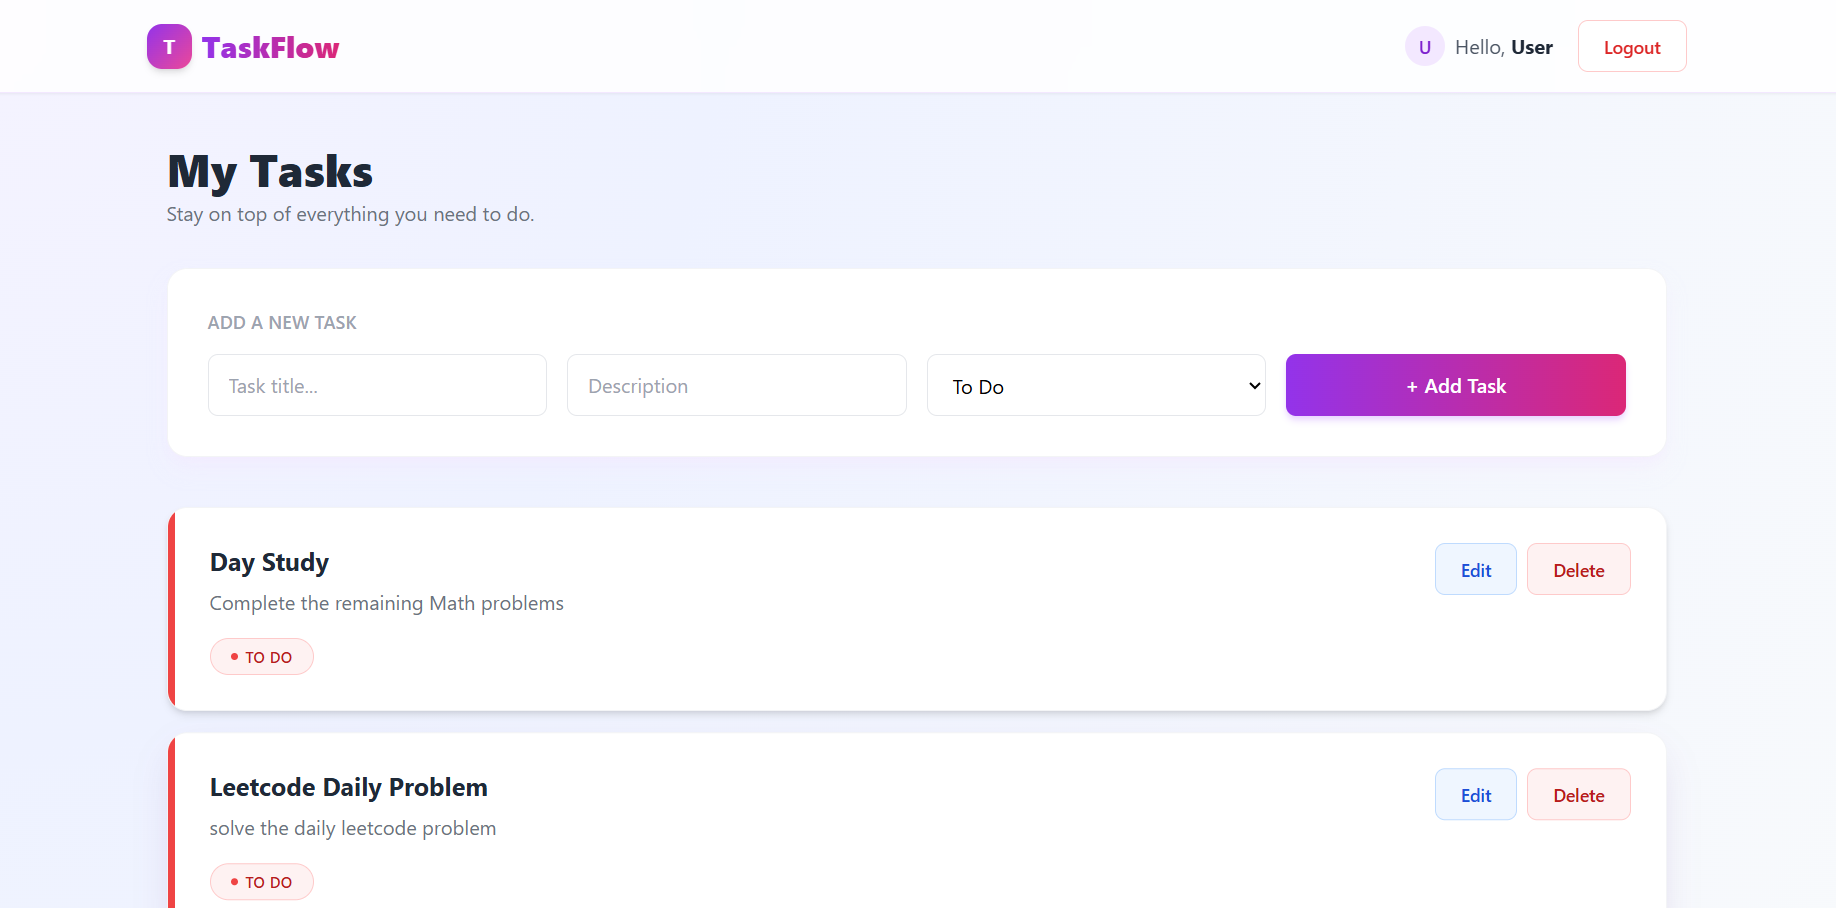
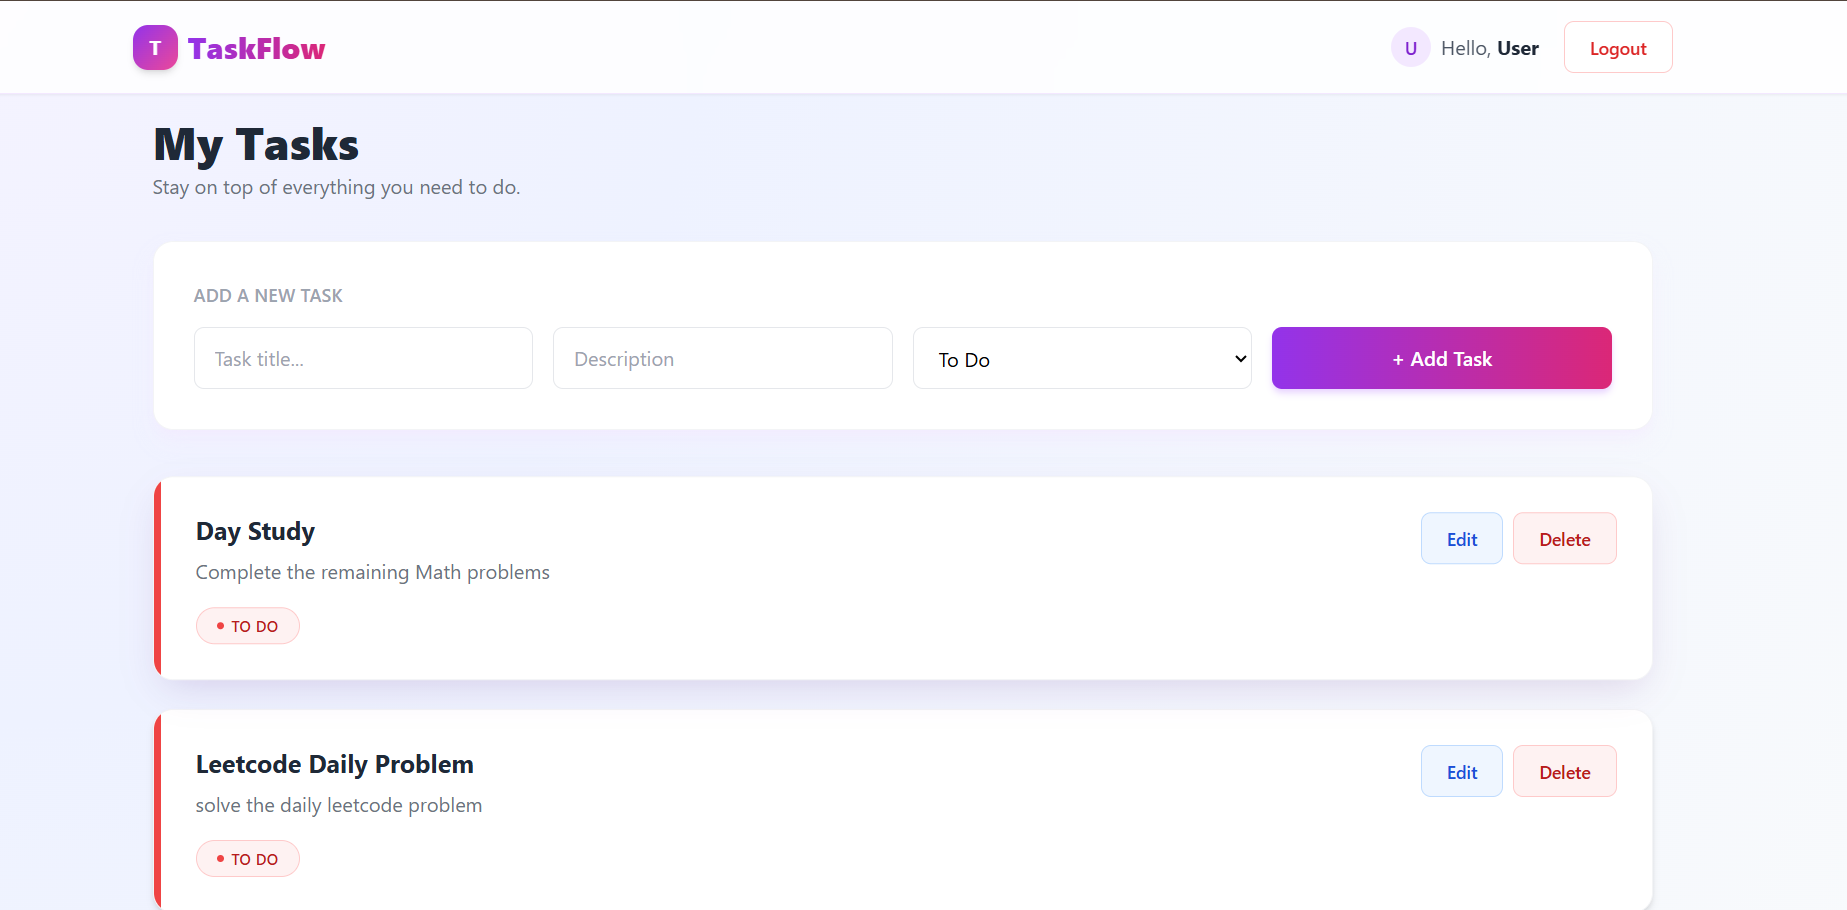
Screenshots

diff --git a/src/main/resources/templates/edit-task.html b/src/main/resources/templates/edit-task.html
@@ -3,7 +3,7 @@
 <head>
     <meta charset="UTF-8">
     <meta name="viewport" content="width=device-width, initial-scale=1.0">
-    <title>Edit Task - TaskHelp</title>
+    <title>Edit Task - TaskFlow</title>
 
     <script src="https://cdn.tailwindcss.com"></script>
 
@@ -22,19 +22,15 @@
         }
 
         @keyframes bgAnimation{
-
             0%{
                 background-position:0% 50%;
             }
-
             50%{
                 background-position:100% 50%;
             }
-
             100%{
                 background-position:0% 50%;
             }
-
         }
 
         .glass-card{
@@ -134,7 +130,7 @@
                         value="TODO"
                         th:selected="${task.status == 'TODO'}">
 
-                    📌 To Do
+                    To Do
 
                 </option>
 
@@ -142,7 +138,7 @@
                         value="IN_PROGRESS"
                         th:selected="${task.status == 'IN_PROGRESS'}">
 
-                    🚀 In Progress
+                    In Progress
 
                 </option>
 
@@ -150,7 +146,7 @@
                         value="DONE"
                         th:selected="${task.status == 'DONE'}">
 
-                    ✅ Completed
+                    Completed
 
                 </option>
 
@@ -166,7 +162,7 @@
                     type="submit"
                     class="btn bg-gradient-to-r from-green-500 to-emerald-600 text-white py-4 rounded-xl font-semibold text-lg hover:from-green-600 hover:to-emerald-700">
 
-                💾 Save Changes
+                Save Changes
 
             </button>
 
@@ -174,7 +170,7 @@
                     href="/home"
                     class="btn bg-gray-700 text-white py-4 rounded-xl font-semibold text-lg text-center hover:bg-gray-800">
 
-                ← Cancel
+                Cancel
 
             </a>
 

diff --git a/src/main/resources/templates/register.html b/src/main/resources/templates/register.html
@@ -3,7 +3,7 @@
 <head>
     <meta charset="UTF-8">
     <meta name="viewport" content="width=device-width, initial-scale=1.0">
-    <title>Register - TaskHelp</title>
+    <title>Register - TaskFlow</title>
 
     <script src="https://cdn.tailwindcss.com"></script>
 
@@ -63,7 +63,7 @@
     <div class="hidden lg:flex flex-col justify-center bg-white/10 backdrop-blur-md text-white p-12">
 
         <h1 class="text-5xl font-bold mb-6">
-            TaskHelp
+            TaskFlow
         </h1>
 
         <p class="text-lg leading-8 opacity-90">
@@ -104,7 +104,7 @@
 
         <p class="text-center text-gray-500 mt-3 mb-8">
 
-            Join TaskHelp and start managing your daily tasks.
+            Join TaskFlow and start managing your daily tasks.
 
         </p>
 